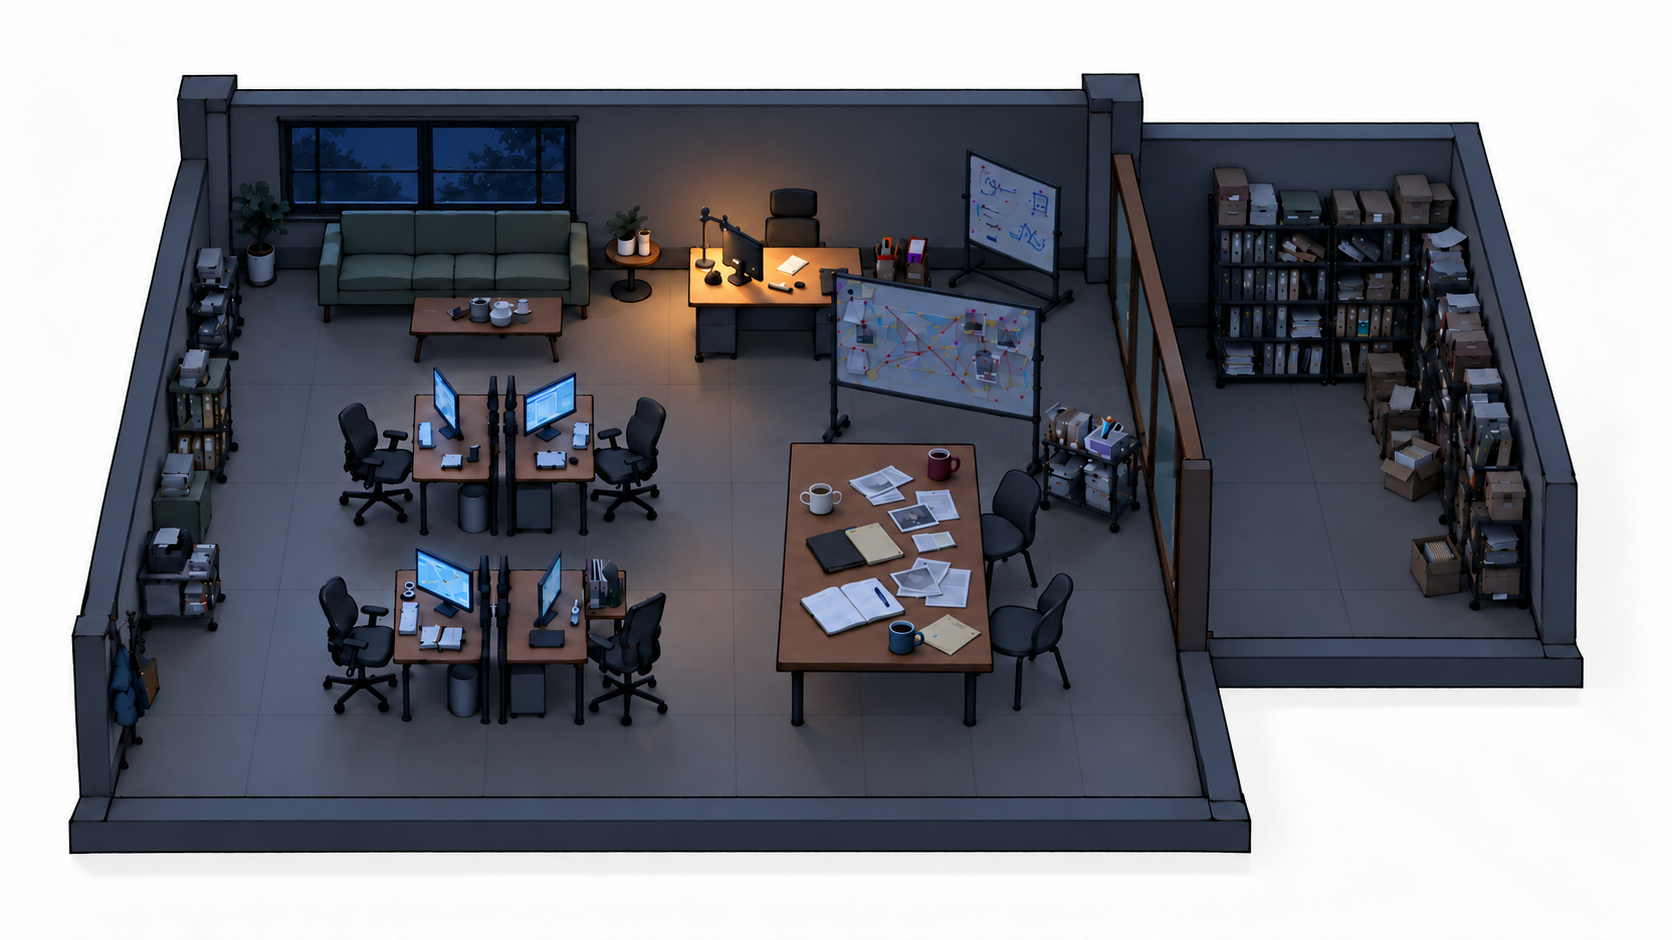
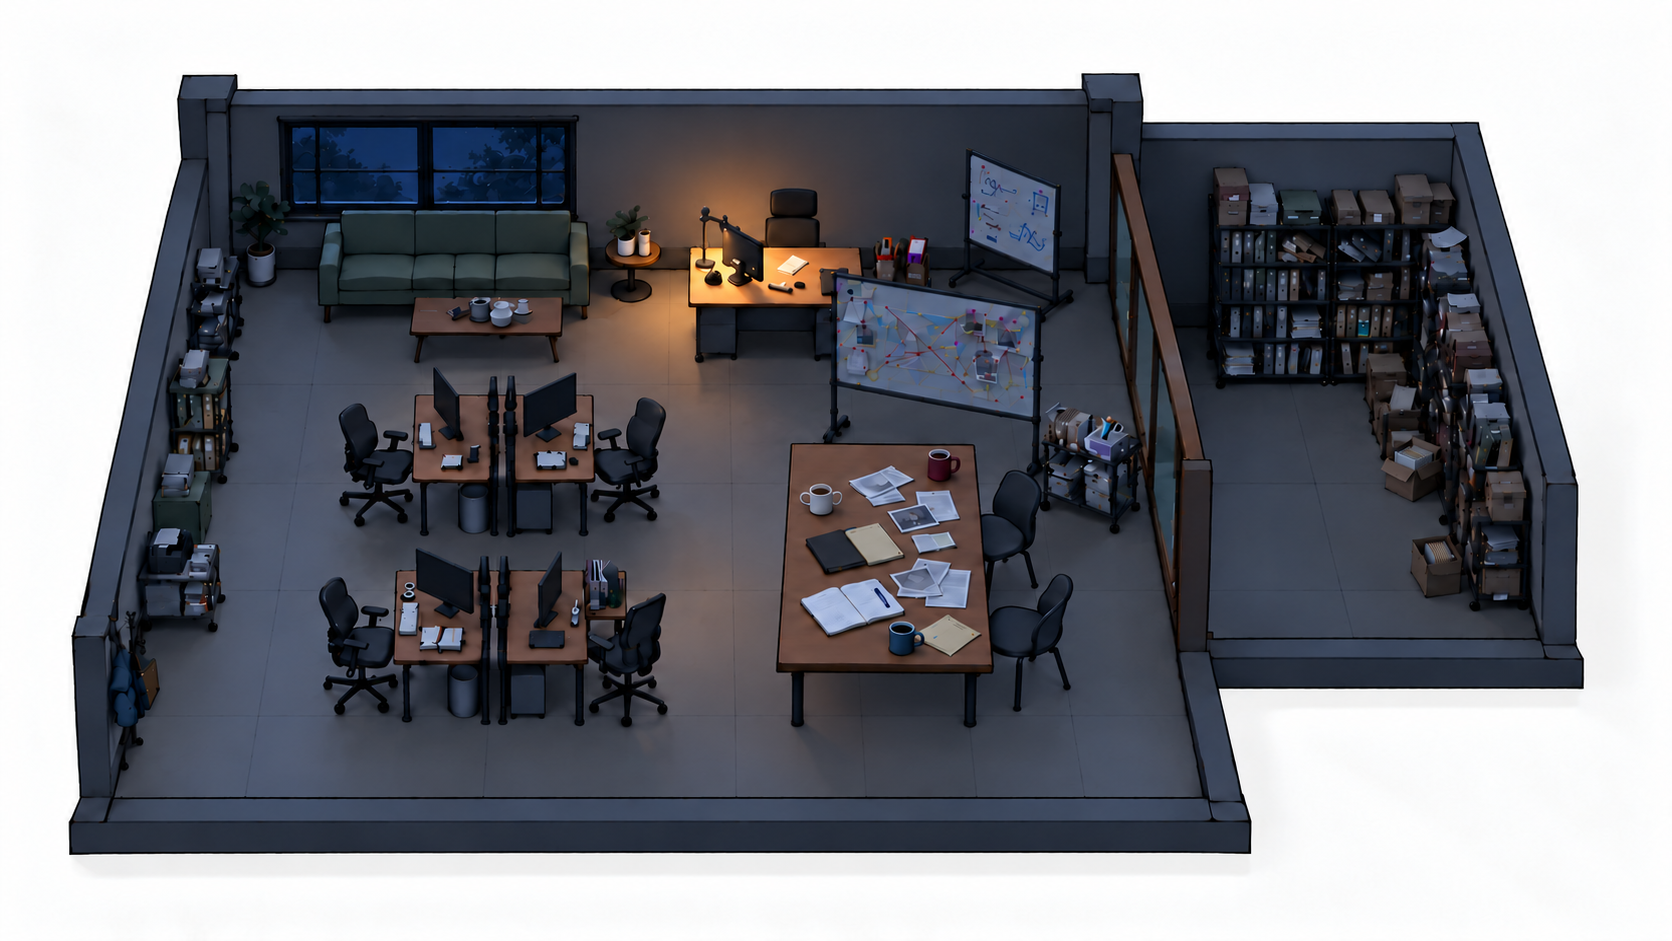
Switch off office computer screens for late night

diff --git a/cbi-scene-lighting.js b/cbi-scene-lighting.js
@@ -10,7 +10,8 @@
   function getSceneSource(locationId, slot) {
     if (!Object.prototype.hasOwnProperty.call(BASE_SOURCES, locationId)) return '';
     if (SLOTS.indexOf(slot) < 0 || slot === 'morning') return BASE_SOURCES[locationId];
-    return 'assets/scenes/cbi-' + locationId + '-' + slot + '.webp?v=20261007-time1';
+    var version = locationId === 'office' && slot === 'night' ? '20261007-nightoff1' : '20261007-time1';
+    return 'assets/scenes/cbi-' + locationId + '-' + slot + '.webp?v=' + version;
   }
 
   // Keep the last loaded image visible while the next lighting variant downloads.

diff --git a/index.html b/index.html
@@ -1157,7 +1157,7 @@ body[data-world-id="cbi"][data-world-location="home"] #char-jane img{display:blo
 <script src="app-back.js?v=20260929-android-back1"></script>
 <script src="character-runtime.js?v=20260914-cbi-sleep2"></script>
 <script src="cbi-weather.js?v=20260903-cbi-weather2"></script>
-<script src="cbi-scene-lighting.js?v=20261007-time1"></script>
+<script src="cbi-scene-lighting.js?v=20261007-nightoff1"></script>
 <script src="cbi-data.js?v=20260929-room-storage1"></script>
 <script>
 if(window.__LIMINAL_REDIRECTING) throw new Error('Redirecting to cloud login');
